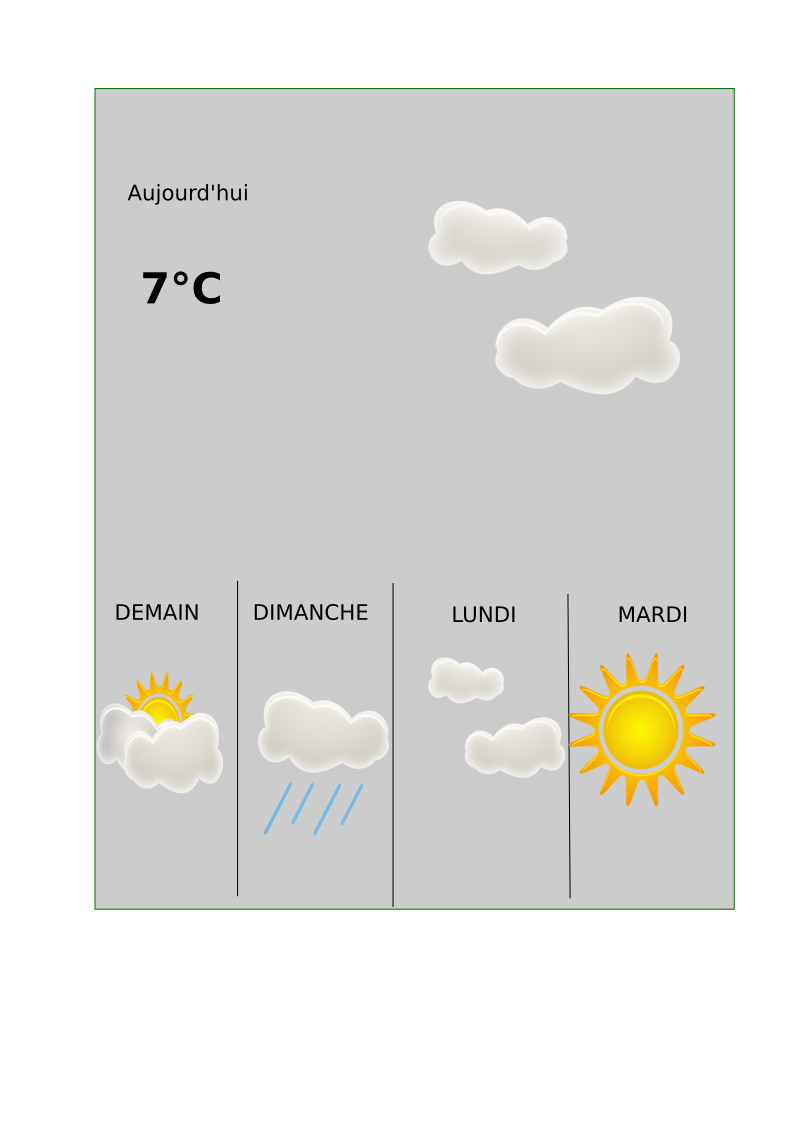
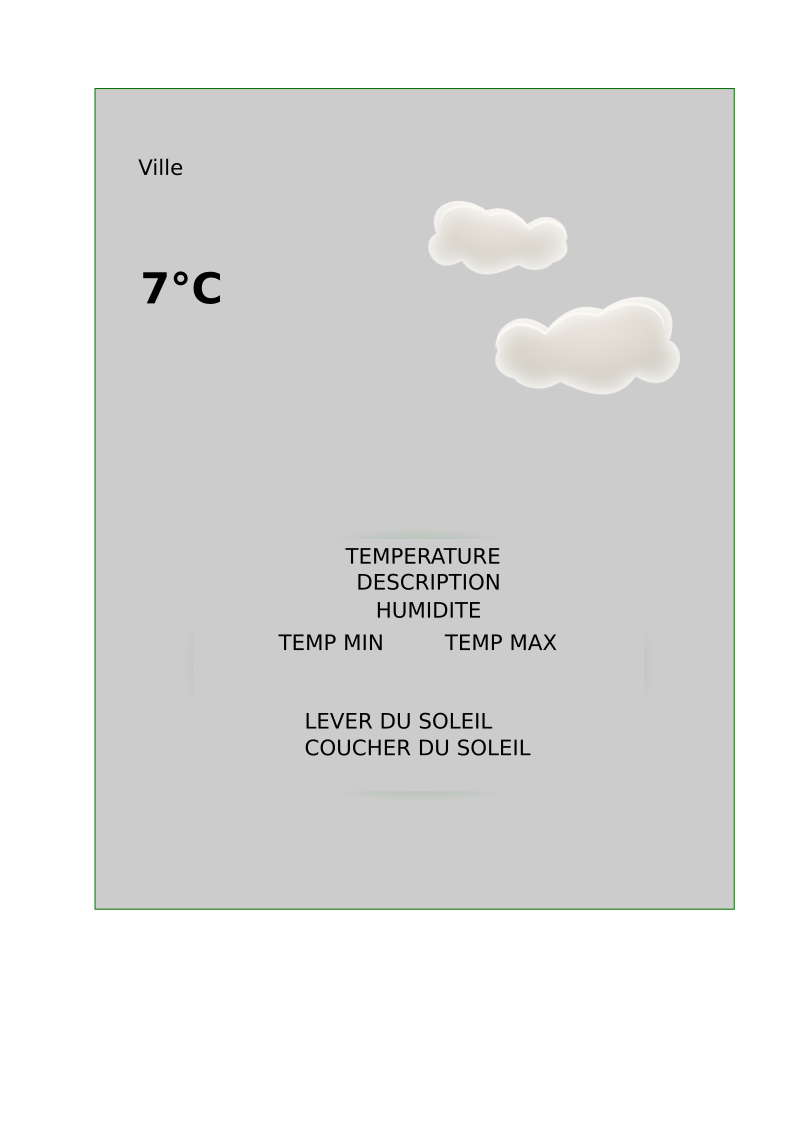
weather

diff --git a/js/app.js b/js/app.js
@@ -1,6 +1,19 @@
-let forecast = document.getElementById("forecast");
-let weatherDay = document.getElementById("weather");
+let temperature = document.getElementById("temperature");
+let nameCity = document.getElementById("nameCity");
+let description = document.getElementById("description");
+let humidity = document.getElementById("humidity");
+let tempMin = document.getElementById("temp-min");
+let tempMax = document.getElementById("temp-max");
+let sunrise = document.getElementById("sunrise");
+let sunset = document.getElementById("sunset");
+let image = document.getElementById("image");
+let container = document.getElementById("container");
+let date = document.getElementById("date");
 const valid = document.getElementById("valid");
+
+container.style.height = innerHeight + "px";
+
+setInterval(()=>date.innerHTML = new Date().toLocaleTimeString(),1000);//date
 
 valid.addEventListener("click", () => {
     let city = document.getElementById("city").value;
@@ -11,27 +24,42 @@ valid.addEventListener("click", () => {
     xhr.open("GET", requestURL);
     xhr.responseType = "json";
 
+    /**
+     * server response
+     */
     xhr.onload = function () {
         if(xhr.status !== 200) {
             return;
         }
         let response = xhr.response;
 
-        weatherDay.innerHTML += "<br>" + city + "<br>";
-        weatherDay.innerHTML += "Température: " + Math.ceil(response.main.temp) + "°C" + "<br>";
-        weatherDay.innerHTML += response.weather[0].description + "<br>";
-        weatherDay.innerHTML += "Humidité: " + Math.ceil(response.main.humidity) + "%" + "<br>";
-        weatherDay.innerHTML += "Température min : " + Math.ceil(response.main.temp_min) + "°C" + "<br>";
-        weatherDay.innerHTML += "Temperature max : " + Math.ceil(response.main.temp_max) + "°C" + "<br>";
+        switch (response.weather[0].description) {
+            case "ciel dégagé" :
+                image.style.backgroundImage = "url('../img/cielDegage.png')";
+                break;
+            case "couvert" :
+                image.style.backgroundImage = "url('../img/couvert.png')";
+                break;
+            case "légères chutes de neige" :
+                image.style.backgroundImage = "url('../img/chutesDeNeige.png')";
+                break;
+            case "légère pluie" :
+                image.style.backgroundImage = "url('../img/légèrePluie.png')";
+                break;
+
+        }
+        nameCity.innerHTML = "<br>" + city + "<br>";
+        temperature.innerHTML = Math.ceil(response.main.temp) + "°C" + "<br>";
+        description.innerHTML = response.weather[0].description + "<br>";
+        humidity.innerHTML = "Humidité: " + Math.ceil(response.main.humidity) + "%" + "<br>";
+        tempMin.innerHTML = "Température min : " + Math.ceil(response.main.temp_min) + "°C" + "<br>";
+        tempMax.innerHTML = "Temperature max : " + Math.ceil(response.main.temp_max) + "°C" + "<br>";
 
         let date = new Date(response.sys.sunrise * 1000).toLocaleTimeString();
-        weatherDay.innerHTML += "Lever du soleil : " + date +  "<br>";
+        sunrise.innerHTML = "Lever du soleil : " + date +  "<br>";
 
         date = new Date(response.sys.sunset * 1000).toLocaleTimeString();
-        weatherDay.innerHTML += "Coucher du soleil : " + date ;
-
-        forecast.innerHTML += response.forecast.time.from + date ;
-        forecast.innerHTML += response.forecast.time.to + (date * 4);
+        sunset.innerHTML = "Coucher du soleil : " + date ;
     }
     xhr.send();
 })

diff --git a/index.html b/index.html
@@ -5,21 +5,45 @@
     <title>Météo</title>
     <meta name="viewport"
           content="width=device-width, user-scalable=no, initial-scale=1.0, maximum-scale=1.0, minimum-scale=1.0">
+    <link rel="stylesheet" href="css/style.css">
 
 </head>
 <body>
 
 <div id="container">
     <h1>Météo</h1>
-    <div id="search">
-        <input type="text" id="city" placeholder="Entrer votre ville">
-    </div>
-    <div id="valid">
-        <button>Valider</button>
+
+    <div id="date"></div>
+
+    <div id="top">
+        <div id="search">
+            <input type="text" id="city" placeholder="Entrer votre ville">
+        </div>
+
+        <div id="valid">
+            <button>Valider</button>
+        </div>
     </div>
 
-    <div id="weather"></div>
-    <div id="forecast"></div>
+    <div id="weather">
+        <section>
+            <div id="cityDescrip">
+                <div id="nameCity"></div>
+                <div id="temperature"></div>
+            </div>
+
+            <div id="image"></div>
+        </section>
+
+        <div id="foot">
+            <div id="description"></div>
+            <div id="humidity"></div>
+            <div id="temp-min"></div>
+            <div id="temp-max"></div>
+            <div id="sunrise"></div>
+            <div id="sunset"></div>
+        </div>
+    </div>
 </div>
 
     <script src="js/app.js"></script>

diff --git a/css/style.css b/css/style.css
@@ -1,0 +1,80 @@
+* {
+    margin: 0;
+    padding: 0;
+    box-sizing: border-box;
+}
+
+html {
+    font-size: 62.5%;
+}
+
+#container {
+    border: 1px solid black;
+    display: flex;
+    flex-direction: column;
+    background-color: lightblue;
+    background-image: url("/img/back.png");
+    background-repeat: no-repeat;
+    background-size: cover;
+}
+
+#date {
+    text-align: center;
+    margin: 1rem;
+    font-size: 2rem;
+}
+
+#top {
+    display: flex;
+    flex-direction: column;
+    justify-content: center;
+    align-items: center;
+}
+
+#city {
+    font-size: 2rem;
+}
+
+#nameCity {
+    text-transform: capitalize;
+    font-weight: bold;
+    font-size: 2rem;
+}
+
+
+#valid {
+    margin: 2rem;
+}
+
+button {
+    font-size: 2rem;
+}
+
+h1 {
+    text-align: center;
+    font-size: 6rem;
+    margin: 3rem;
+}
+
+#weather {
+    font-size: 2rem;
+    text-align: center;
+}
+
+section {
+    display: flex;
+    justify-content: space-around;
+}
+
+#image {
+    width: 20vw;
+    height: 20vh;
+    background-repeat: no-repeat;
+    background-size: contain;
+}
+
+#foot {
+    width: 20vw;
+    height: 20vh;
+    margin: 0 auto;
+}
